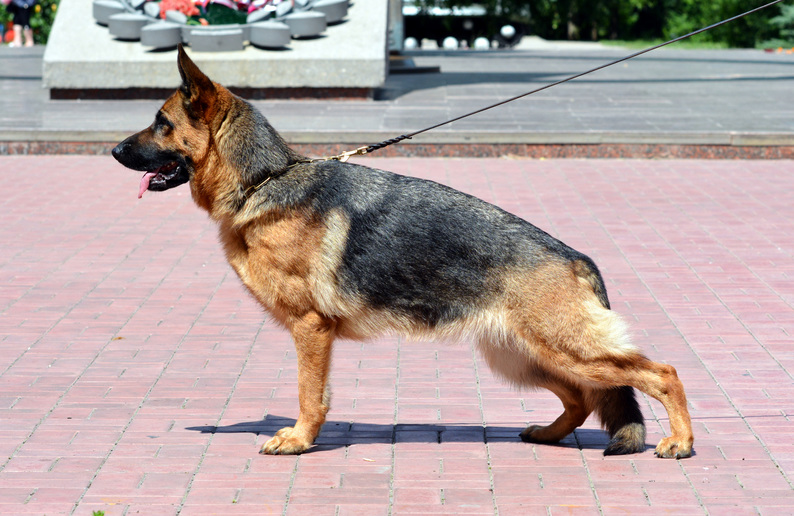
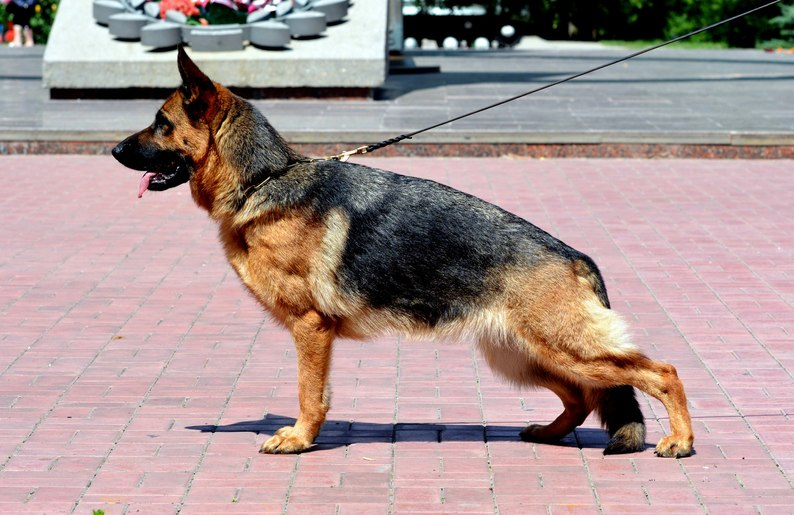
Update Nikoletta photos

diff --git a/females/nikoletta/index.htm b/females/nikoletta/index.htm
@@ -52,7 +52,7 @@
 				<li>2 x ЮСС</li>
 			</ul>
 			<p>ОКД 1, ЗКС 1; HD-A, ED-0; Kkl 1</p>
-			<img src="/img/photos/nikoletta/main.jpg" width="588" height="391" alt="Фотография Фанхил Хаус Николетты" />
+			<img src="/img/photos/nikoletta/main.jpg" width="588" height="382" alt="Фотография Фанхил Хаус Николетты" />
 			<p><a href="photos.htm">Фотографии</a> | <a href="video.htm">Видео</a> | <a href="shows.htm">Результаты выставок</a></p>
 			<p>Родословная: <a href="http://www.pedigreedatabase.com/german_shepherd_dog/dog.html?id=2230345-fanhil-haus-nikoletta" target="_blank">Pedigree Database</a>,<br/><a href="http://database.gsdog.ru/dog.php?screen=1&amp;id=26656" target="_blank">GSDOG</a></p>
 			<table class="pedigree">
